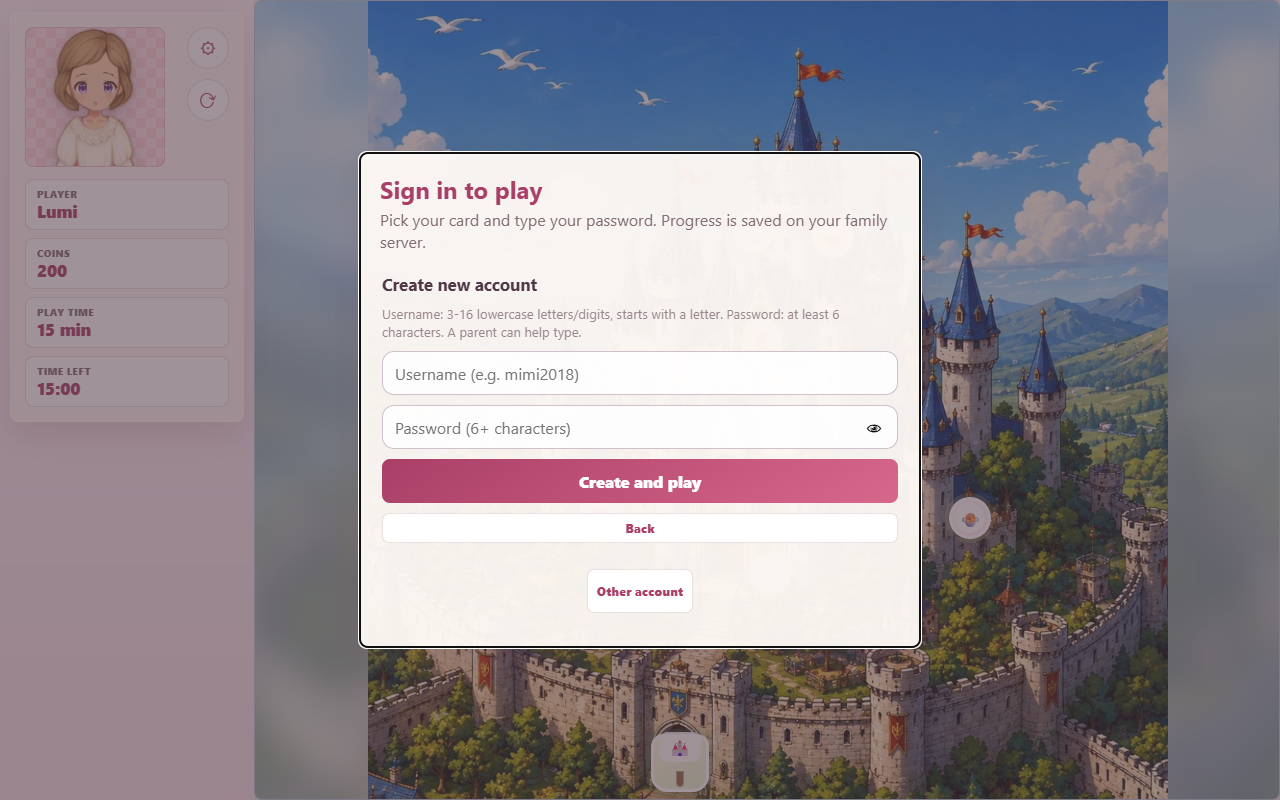
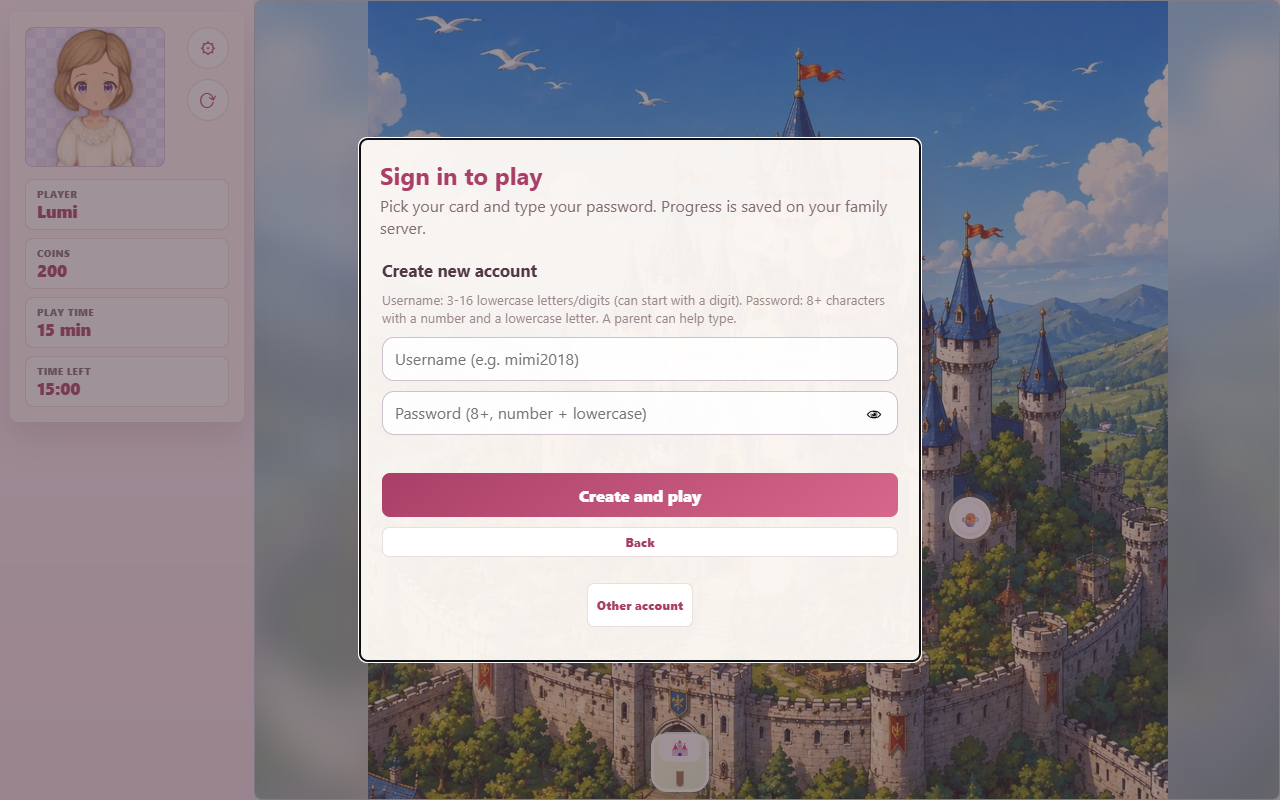
test: e2e-helm 密碼 fixture 合 #330 新規（kidpw6→kidpw2026）＋版號 0.66.1 (#339)
Refs #338
- 發車環硬 gate 攔下：fixture 6 碼不合新規致註冊 422、後段連鎖假敗；改 8 碼含數字小寫後全鏈 ALL PASS
- VERSION 0.66.1（test、產品行為零變更）＋投影重生；helm e2e 證據截圖隨跑重生

Changed region(s): [[0.2812, 0.1562, 0.7188, 0.6875], [0.2812, 0.7188, 0.7188, 0.8438]]

diff --git a/CHANGELOG.md b/CHANGELOG.md
@@ -3,6 +3,9 @@
 本檔自 repo 根目錄 `VERSION` 投影產生（`node scripts/genVersion.mjs`）；請勿手改，改沿革請編輯 `VERSION`。
 版號釘選於 PR merge（依變更型別 bump VERSION），release 與版號解耦；本檔收全部變更，遊戲 About 只投影 playerVisible 筆。
 
+## 0.66.1 — 2026-07-16 _(internal)_
+- test (#338): 發車測試 fixture 修正（test-only、產品行為零變更）：helm e2e 之玩家密碼測試值改合 #330 新規（8 碼含數字小寫）——v0.66.0 首班發車測試 422 假敗即此因，發車環硬 gate 攔下後修正、本批改發 v0.66.1
+
 ## 0.66.0 — 2026-07-16 _(internal)_
 - feat (#329): 支援公網正式部署（deploy-only、遊戲行為零變更）：helm chart 預設啟用 Ingress（host 預設 sollingoworld.local、baseDomain/host 可覆寫）、TLS 兩模式（自架 ingress-nginx＋cert-manager／外部邊緣終結如 Cloudflare Tunnel）；README 部署章新增安裝前環境檢查腳本（bash＋PowerShell，偵測預設 IngressClass 防孤兒 404）、公網部署指引（trustProxy 跳數對照、/admin/ 安全注意、升級註記）；「家庭內網 only、勿轉發公網」舊定位除役（README／values／NOTES／ingress 模板四處），公網一律經 TLS 終結入口
 